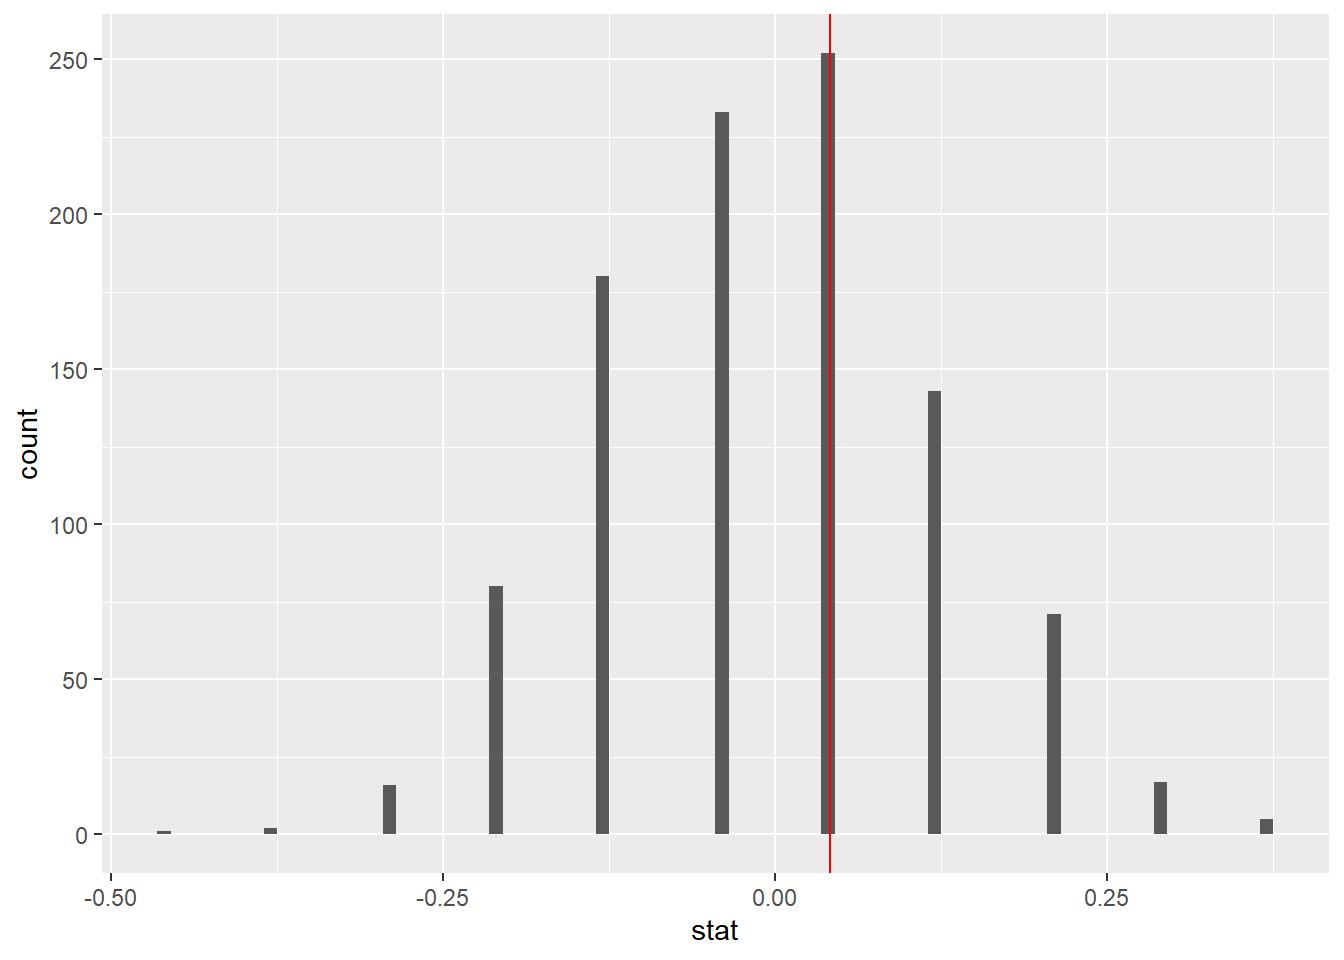
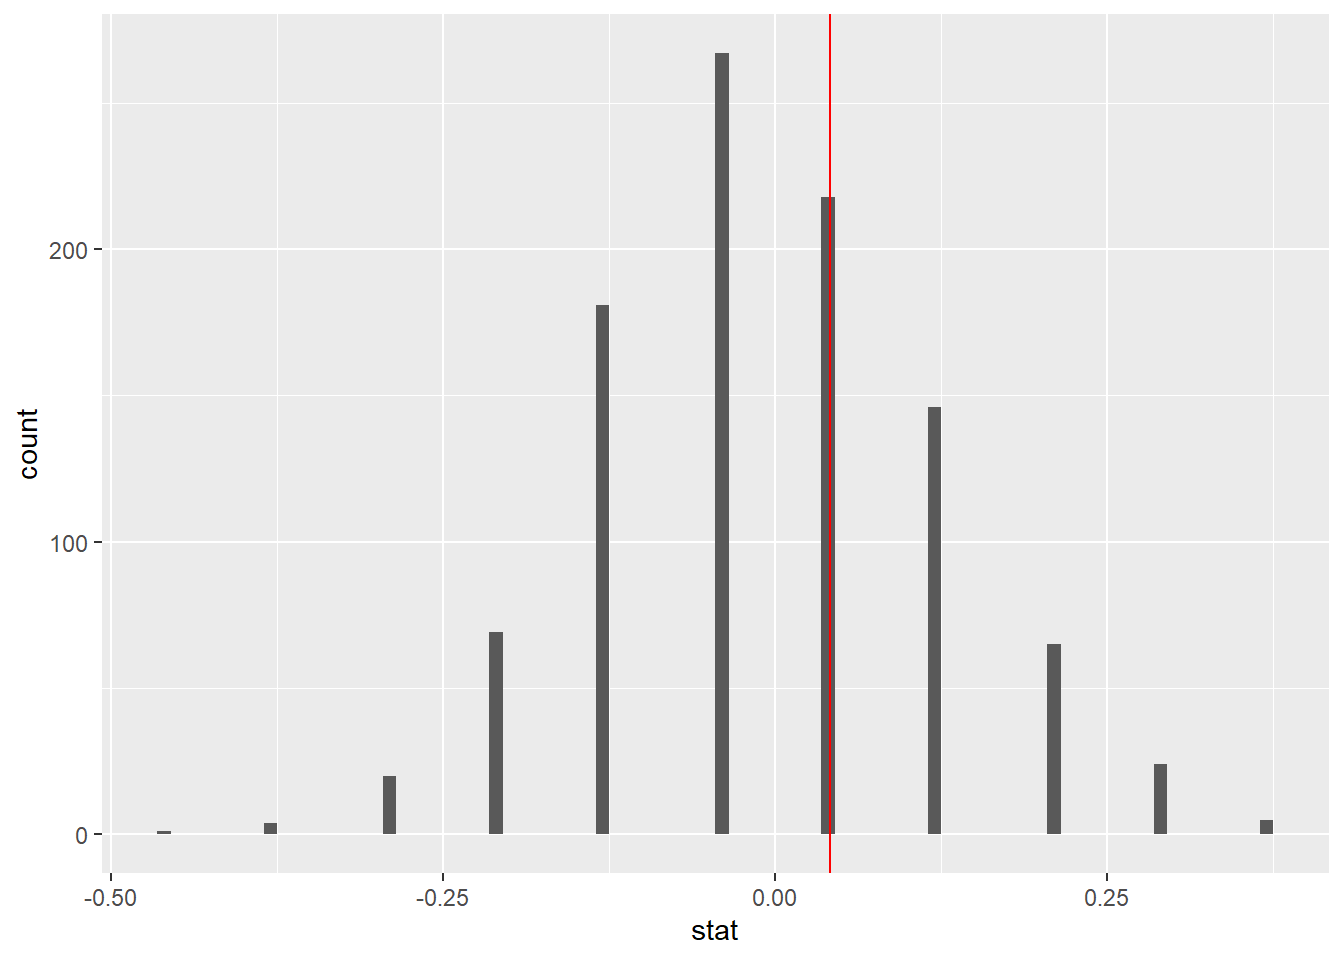
77

diff --git a/content/post/R/2021-10-13-foundations-of-inference/index.en.html b/content/post/R/2021-10-13-foundations-of-inference/index.en.html
@@ -145,15 +145,15 @@ homeown_perm</code></pre>
 ##    HomeOwn Gender replicate
 ##    &lt;fct&gt;   &lt;fct&gt;      &lt;int&gt;
 ##  1 Own     male           1
-##  2 Rent    male           1
+##  2 Own     male           1
 ##  3 Own     male           1
 ##  4 Own     male           1
 ##  5 Own     female         1
-##  6 Rent    male           1
-##  7 Rent    male           1
+##  6 Own     male           1
+##  7 Own     male           1
 ##  8 Own     female         1
-##  9 Rent    female         1
-## 10 Own     female         1
+##  9 Own     female         1
+## 10 Rent    female         1
 ## # ... with 97,110 more rows</code></pre>
 </div>
 <div id="randomized-statistics-and-dotplot" class="section level2">
@@ -178,16 +178,16 @@ homeown_perm</code></pre>
 <pre><code>## # A tibble: 100 x 2
 ##    replicate      stat
 ##        &lt;int&gt;     &lt;dbl&gt;
-##  1         1  0.000821
-##  2         2  0.00988 
-##  3         3  0.0115  
-##  4         4 -0.0119  
-##  5         5  0.00370 
-##  6         6  0.0152  
-##  7         7  0.0173  
-##  8         8  0.00576 
-##  9         9  0.0152  
-## 10        10  0.000821
+##  1         1 -0.00536 
+##  2         2  0.0115  
+##  3         3 -0.0115  
+##  4         4  0.00453 
+##  5         5  0.000409
+##  6         6  0.000409
+##  7         7 -0.0103  
+##  8         8  0.00823 
+##  9         9  0.0177  
+## 10        10  0.00823 
 ## # ... with 90 more rows</code></pre>
 <pre class="r"><code># Perform 100 permutations
 homeown_perm &lt;- homes %&gt;%
@@ -369,11 +369,11 @@ disc_perm %&gt;%
 <pre><code>## # A tibble: 5 x 2
 ##   replicate    stat
 ##       &lt;int&gt;   &lt;dbl&gt;
-## 1         1 -0.0417
-## 2         2 -0.0417
-## 3         3 -0.125 
-## 4         4 -0.0417
-## 5         5 -0.0417</code></pre>
+## 1         1  0.208 
+## 2         2  0.208 
+## 3         3  0.0417
+## 4         4  0.0417
+## 5         5 -0.125</code></pre>
 </div>
 <div id="randomizing-gender-discrimination" class="section level2">
 <h2>2-5 Randomizing gender discrimination</h2>
@@ -464,16 +464,16 @@ disc_perm %&gt;%
 <pre><code>## # A tibble: 1,000 x 2
 ##    replicate    stat
 ##        &lt;int&gt;   &lt;dbl&gt;
-##  1         1 -0.208 
+##  1         1  0.125 
 ##  2         2  0.0417
-##  3         3  0.0417
-##  4         4 -0.0417
-##  5         5 -0.125 
-##  6         6  0.125 
+##  3         3 -0.125 
+##  4         4 -0.125 
+##  5         5  0.0417
+##  6         6  0.0417
 ##  7         7  0.0417
-##  8         8 -0.0417
-##  9         9 -0.0417
-## 10        10 -0.0417
+##  8         8 -0.125 
+##  9         9 -0.125 
+## 10        10  0.0417
 ## # ... with 990 more rows</code></pre>
 <pre class="r"><code># For an unknown reason, result is not same as DataCamp result. Therefore, I added below line:
 #disc_perm &lt;- read.csv(&quot;disc_perm.csv&quot;)
@@ -564,7 +564,7 @@ disc_perm %&gt;%
 <pre><code>## # A tibble: 1 x 1
 ##   p_value
 ##     &lt;dbl&gt;
-## 1   0.488</code></pre>
+## 1   0.458</code></pre>
 <pre class="r"><code># Visualize and calculate the p-value for the small dataset
 #disc_perm_small %&gt;%
 #  visualize(obs_stat = diff_orig_small, direction = &quot;greater&quot;)
@@ -582,8 +582,8 @@ disc_perm_small %&gt;%
 disc_perm_big %&gt;%
   get_p_value(obs_stat = diff_orig_big, direction = &quot;greater&quot;)</code></pre>
 <pre><code>## Warning: Please be cautious in reporting a p-value of 0. This result is an
-## approximation based on the number of `reps` chosen in the `generate()` step. See `?
-## get_p_value()` for more information.</code></pre>
+## approximation based on the number of `reps` chosen in the `generate()` step. See
+## `?get_p_value()` for more information.</code></pre>
 <pre><code>## # A tibble: 1 x 1
 ##   p_value
 ##     &lt;dbl&gt;
@@ -627,7 +627,7 @@ disc_perm %&gt;%
 <pre><code>## # A tibble: 1 x 1
 ##   p_value
 ##     &lt;dbl&gt;
-## 1   0.488</code></pre>
+## 1   0.458</code></pre>
 <pre class="r"><code># Find the p-value from the new data
 disc_perm_new %&gt;%
   summarize(p_value = mean(diff_orig_new &lt;= stat))</code></pre>
@@ -646,7 +646,7 @@ disc_perm %&gt;%
 <pre><code>## # A tibble: 1 x 1
 ##   p_value
 ##     &lt;dbl&gt;
-## 1   0.976</code></pre>
+## 1   0.916</code></pre>
 </div>
 <div id="hypothesis-testing-errors-opportunity-cost" class="section level2">
 <h2>3- Hypothesis testing errors: opportunity cost</h2>
@@ -865,16 +865,16 @@ opp_perm</code></pre>
 <pre><code>## # A tibble: 1,000 x 2
 ##    replicate    stat
 ##        &lt;int&gt;   &lt;dbl&gt;
-##  1         1  0.0667
-##  2         2 -0.0667
-##  3         3  0.0133
+##  1         1  0.12  
+##  2         2  0.12  
+##  3         3 -0.0667
 ##  4         4 -0.0400
-##  5         5 -0.12  
-##  6         6 -0.0133
-##  7         7  0.0133
+##  5         5 -0.0133
+##  6         6  0.0667
+##  7         7  0.0400
 ##  8         8 -0.0667
-##  9         9 -0.147 
-## 10        10 -0.0133
+##  9         9  0.0133
+## 10        10 -0.0667
 ## # ... with 990 more rows</code></pre>
 <pre class="r"><code># From previous steps
 diff_obs &lt;- opportunity %&gt;%
@@ -911,25 +911,67 @@ opp_perm %&gt;%
 <pre><code>## # A tibble: 1 x 1
 ##   p_value
 ##     &lt;dbl&gt;
-## 1   0.741</code></pre>
+## 1   0.754</code></pre>
 <pre class="r"><code># Calculate the p-value using `summarize`
 opp_perm %&gt;%
   summarize(p_value = mean(stat &lt;= diff_orig))</code></pre>
 <pre><code>## # A tibble: 1 x 1
 ##   p_value
 ##     &lt;dbl&gt;
-## 1   0.741</code></pre>
+## 1   0.754</code></pre>
+<p>Q: In the last exercise, you computed the p-value, or the proportion of permuted differences less than or equal to the observed difference:</p>
+<p>opp_perm %&gt;%
+summarize(p_value = mean(stat &lt;= diff_orig))</p>
+<p>Based on this result of 0.017, what can you conclude from the study about the effect of reminding students to save money?</p>
+<p>A: Reminding them causes them to be less likely to buy the DVD.</p>
+<div id="section" class="section level38">
+<p class="heading"></p>
+<p>Q: (Different choice of error rate) Consider again a situation where the task is to differentiate the proportion of successes across two different groups. What decision should be made if the goal is to never make a type II error (false negative)?</p>
+<p>A: Always claim there is a difference in proportions.</p>
+</div>
+<div id="section-1" class="section level38">
+<p class="heading"></p>
+<p>Q:Errors for two-sided hypotheses
+Sometimes you’ll be interested in identifying any difference in proportions (as opposed to one larger proportion). Consider these slightly adjusted hypotheses for the opportunity cost example:</p>
+<p>H0: Reminding students that they can save money for later purchases will not have any impact on students’ spending decisions.</p>
+<p>HA: Reminding students that they can save money for later purchases will change the chance they will continue with a purchase.
+What are type I (false positive) and type II (false negative) errors for the two-sided hypotheses related to the opportunity costs example?</p>
+<p>A: Type I: There is not a difference in proportions, but the observed difference is big enough to indicate that the proportions are different.</p>
+<p>Type II: There is a difference in proportions, but the observed difference is not large enough to indicate that the proportions are different.</p>
+</div>
 </div>
 <div id="p-value-for-two-sided-hypotheses-opportunity-costs" class="section level2">
 <h2>3-10- p-value for two-sided hypotheses: opportunity costs</h2>
 <p>The p-value measures the likelihood of data as or more extreme than the observed data, given the null hypothesis is true. Therefore, the appropriate p-value for a two-sided alternative hypothesis is a two-sided p-value.</p>
 <p>To find a two-sided p-value, you simply double the one sided p-value. That is, you want to find two times the proportion of permuted differences that are less than or equal to the observed difference.</p>
 <p>The opp_perm data frame, containing the differences in permuted proportions, and the original observed statistic, diff_orig, are available in your workspace.</p>
+<pre class="r"><code>opp_perm</code></pre>
+<pre><code>## # A tibble: 1,000 x 2
+##    replicate    stat
+##        &lt;int&gt;   &lt;dbl&gt;
+##  1         1 -0.0667
+##  2         2 -0.0667
+##  3         3 -0.0400
+##  4         4  0.2   
+##  5         5  0.0933
+##  6         6  0.0133
+##  7         7 -0.0400
+##  8         8  0.0933
+##  9         9  0.0400
+## 10        10  0.0400
+## # ... with 990 more rows</code></pre>
+<pre class="r"><code># Calculate the two-sided p-value
+opp_perm %&gt;%
+  summarize(p_value = 2* mean(stat &lt;= diff_orig))</code></pre>
+<pre><code>## # A tibble: 1 x 1
+##   p_value
+##     &lt;dbl&gt;
+## 1    1.51</code></pre>
 </div>
 <div id="confidence-intervals" class="section level2">
 <h2>4- Confidence intervals</h2>
 <p>As a complement to hypothesis testing, confidence intervals allow you to estimate a population parameter. Recall that your interest is always in some characteristic of the population, but you only have incomplete information to estimate the parameter using sample data. Here, the parameter is the true proportion of successes in a population. Bootstrapping is used to estimate the variability needed to form the confidence interval.</p>
 </div>
-<div id="section" class="section level2">
+<div id="section-2" class="section level2">
 <h2>4-2-</h2>
 </div>
